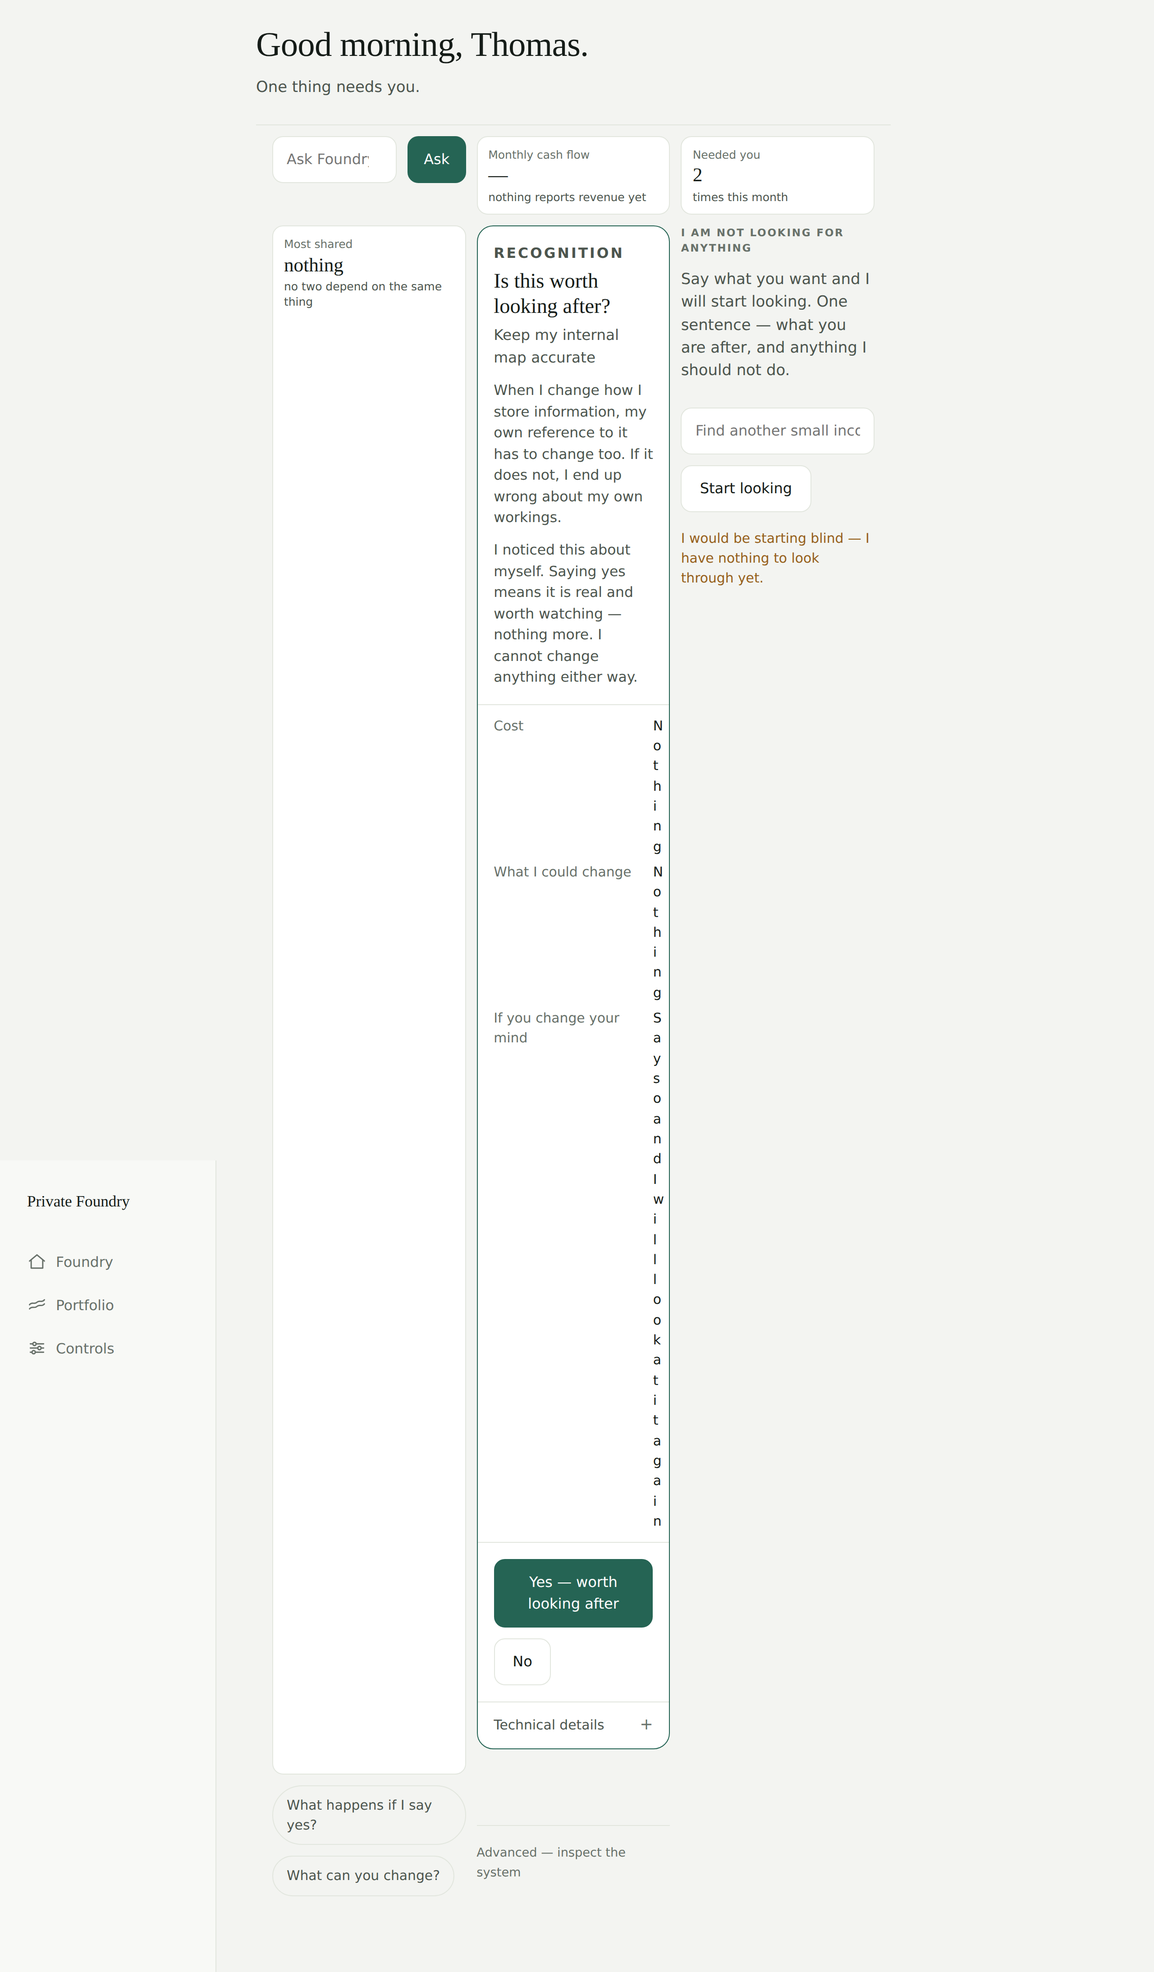
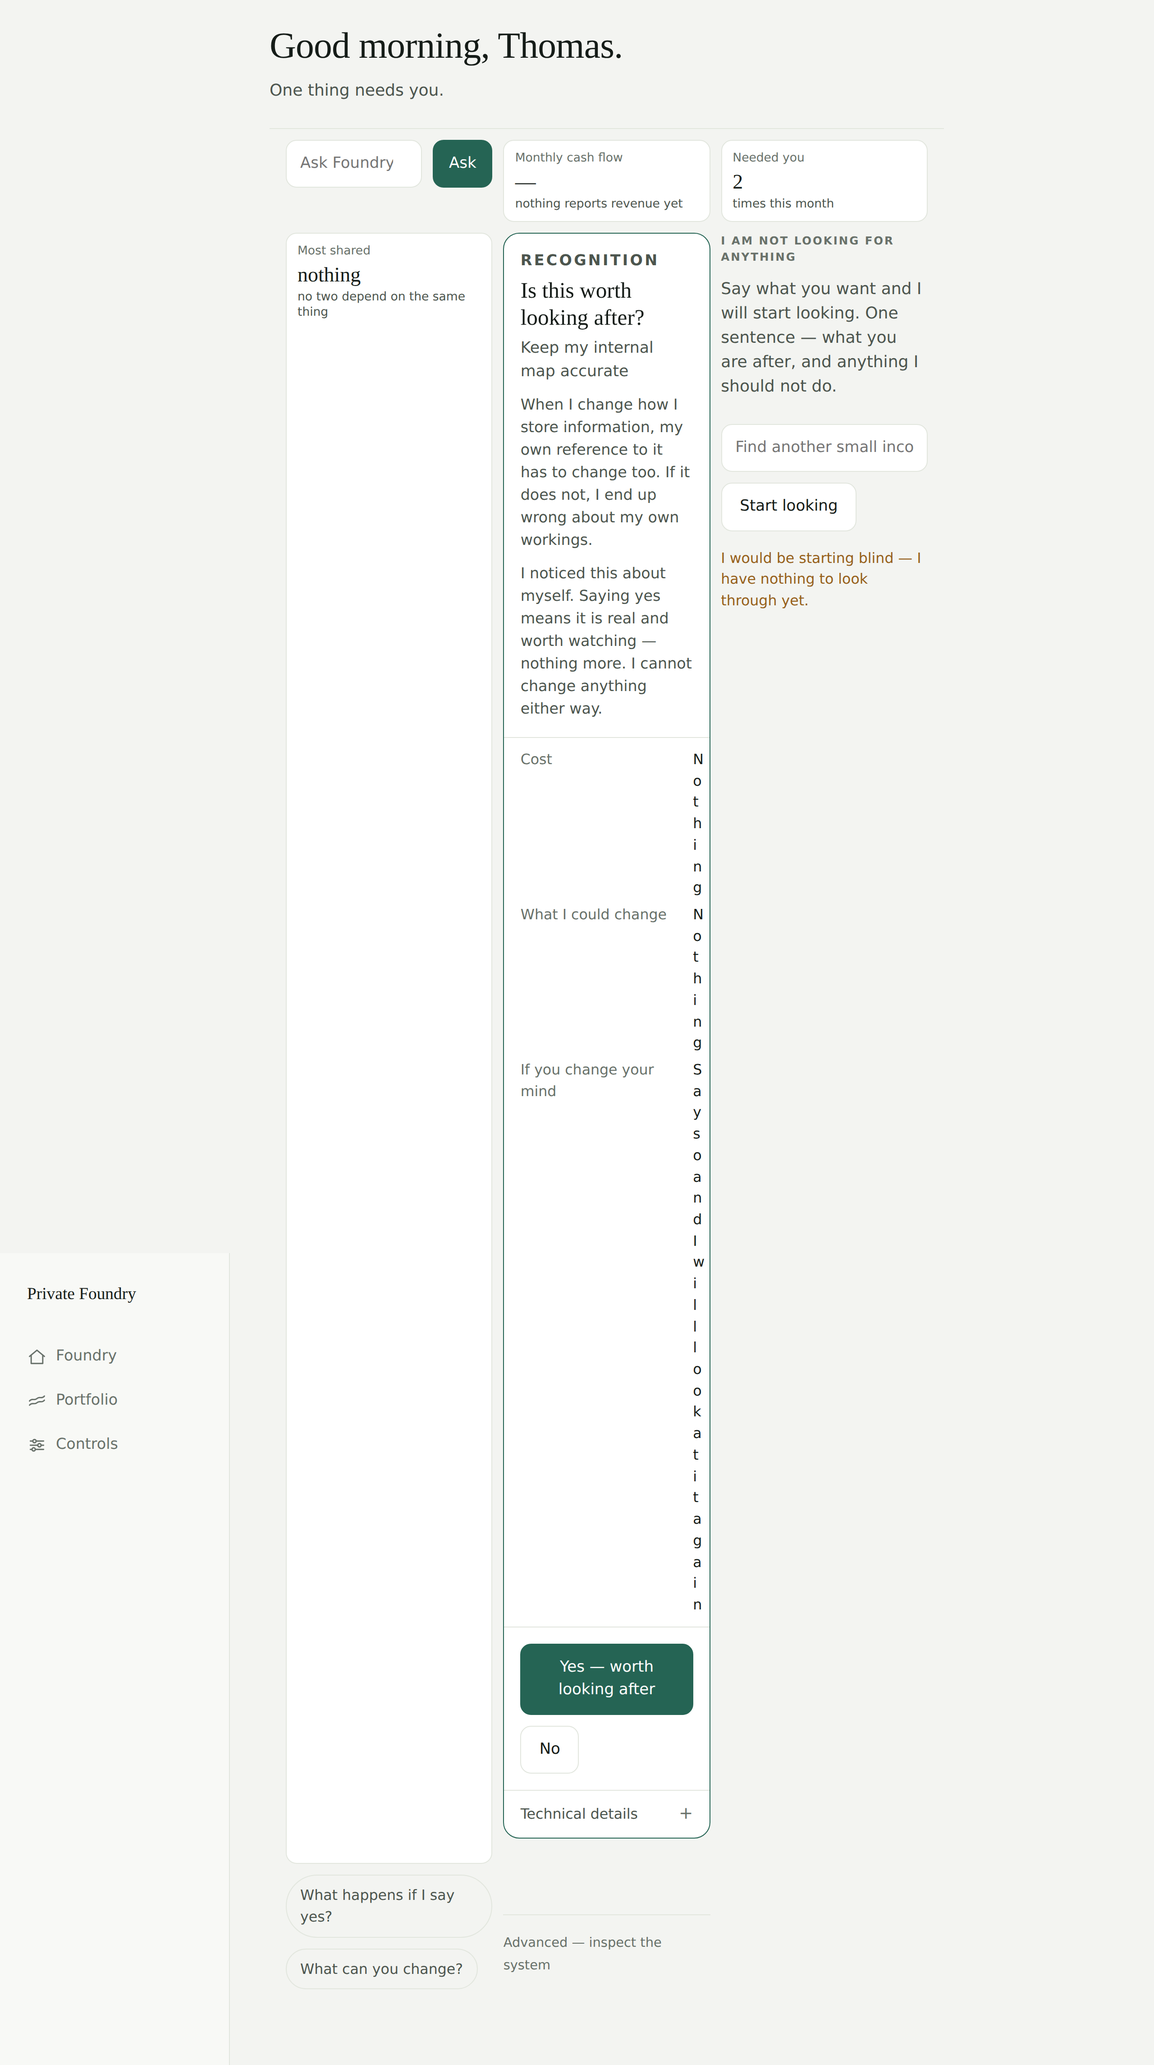
A ceiling he could not lower, and a button he did not press [deploy-private]
AN ALLOWANCE COULD BE SET AND NEVER TAKEN BACK. The function to withdraw one
existed, was exported, and was called from nowhere — so the only way to remove
a spending ceiling was to set a different one, which is a different act and not
what he would mean. On the surface whose entire subject is what he has
permitted, a permission that cannot be withdrawn is the wrong way round.

A BUTTON THAT RECORDED A RULE HE DID NOT ASK FOR. "Keep looking" posted a
sentence straight past the confirmation page every other binding statement goes
through, where it was read as permanent guidance and stored on the mandate
forever. Keeping looking is what happens when he does nothing; it does not need
a button, and it certainly does not need one that quietly writes a rule. Deleted.
"Reject" now says what it does — bury this one — because the card's other
buttons name their consequence and that one named a feeling.

HIS OWN SENTENCE, PRINTED TWICE. "What matters here" showed his statement in the
fold's summary and again three lines below it, right-aligned with no clamp, so
three hundred characters of his own words became a wall beside a heading.

THE TYPE SCALE DISAGREED WITH ITSELF. The body was 17px while rem stayed 16px,
so every size in the stylesheet — all of them are in rem — was six per cent
smaller than the scale it was written against. And on desktop the cards were
capped to a readable measure while the prose between them was not, so sentences
[…]

diff --git a/src/routes/dashboard/foundry-shell.ts b/src/routes/dashboard/foundry-shell.ts
@@ -600,10 +600,13 @@ async function readOwnerState(
           // morning has not come round yet. Saying "I have found nothing" when
           // I have not yet looked would be worse: it reports an outcome for
           // work that never happened.
+          // WHETHER IT HAS EVER LOOKED IS A YES OR NO, not a total. This
+          // counted every retrieval the institution had ever made, on the first
+          // screen, to answer a question that one row settles.
           const looked = (await query(
-            'SELECT COUNT(*) AS n FROM market_retrievals WHERE founder_id = ?',
-            [founderId])).rows[0] as Record<string, unknown>;
-          return Number(looked.n) === 0
+            'SELECT 1 AS any FROM market_retrievals WHERE founder_id = ? LIMIT 1',
+            [founderId])).rows[0] as Record<string, unknown> | undefined;
+          return looked === undefined
             ? 'I have not looked yet. I go looking each morning.'
             : 'I have looked and found nothing worth pursuing yet.';
         })(),
@@ -886,10 +889,15 @@ const page = (title: string, body: HtmlEscapedString | Promise<HtmlEscapedString
     --c1:#B7E4D0; --c2:#7FC3A8; --c3:#4A8570; --c4:#2A4C40;
   }}
   *,*::before,*::after{box-sizing:border-box}
+  /* REM AND BODY AGREE. The body was 17px while rem stayed 16px, so every size
+     expressed in rem — which is all of them — was 6% smaller than the scale it
+     was written against, and a .93rem "slightly smaller" was actually 15.8px
+     beside 17px body text. */
+  html{font-size:17px}
   html,body{max-width:100%;overflow-x:hidden}
   body{
     margin:0;background:var(--bg);color:var(--ink);
-    font:400 17px/1.5 ui-sans-serif,system-ui,-apple-system,"Segoe UI",sans-serif;
+    font:400 1rem/1.5 ui-sans-serif,system-ui,-apple-system,"Segoe UI",sans-serif;
     -webkit-text-size-adjust:100%;-webkit-font-smoothing:antialiased;
   }
   /* ENOUGH ROOM FOR BOTH BARS AND THE HOME INDICATOR. The reserve was a flat
@@ -915,7 +923,6 @@ const page = (title: string, body: HtmlEscapedString | Promise<HtmlEscapedString
     margin:0 0 4px;overflow-wrap:anywhere}
   .tile dd.d{font-size:.78rem;color:var(--ink-2);margin:0;line-height:1.3}
   .tile .d.up{color:var(--good)} .tile .d.down{color:var(--alert)}
-  .tile .spark{display:block;width:100%;height:28px;margin-top:6px}
 
   /* THE NUMBERS. Two across on a phone, each with its trend. */
   .numbers{display:grid;grid-template-columns:repeat(2,minmax(0,1fr));gap:var(--s2);margin:0 0 var(--s2)}
@@ -963,9 +970,6 @@ const page = (title: string, body: HtmlEscapedString | Promise<HtmlEscapedString
   .hero p{margin:0;color:var(--ink-2)}
   .hero.alert{border-color:var(--alert)}
   .quiet{color:var(--ink-2);font-size:.93rem}
-  .more{border:0;border-top:1px solid var(--line);margin-top:var(--s4)}
-  .more>summary{padding-left:0;padding-right:0;color:var(--ink-3)}
-  .more .inner{padding:0}
   /* FOLDED, NOT HIDDEN. Each section is one line that says what is in it,
      and opens in place. The page is understood at a glance and explored when
      wanted, which is the difference between a company and a report. */
@@ -1081,7 +1085,11 @@ const page = (title: string, body: HtmlEscapedString | Promise<HtmlEscapedString
     background:linear-gradient(to top,var(--bg) 70%,transparent)}
   .item{display:block;text-decoration:none;color:inherit;background:var(--card);
     border:1px solid var(--line);border-radius:var(--r);padding:var(--s3);margin:0 0 var(--s2)}
-  .item:hover,.item:focus-visible{border-color:var(--ink-3);outline:none}
+  .item:hover{border-color:var(--ink-3)}
+  /* THE FOCUS RING WAS TURNED OFF. Keyboard focus had nothing to show for
+     itself on the only link that repeats down the whole portfolio. */
+  .item:focus-visible{border-color:var(--ink-3);outline:2px solid var(--accent);
+    outline-offset:2px}
   .item h3{margin:0 0 var(--s1);font-size:1.08rem;font-weight:600}
   .item p{margin:0;color:var(--ink-2);font-size:.93rem}
   .know{margin:0 0 var(--s4)}
@@ -1137,6 +1145,11 @@ const page = (title: string, body: HtmlEscapedString | Promise<HtmlEscapedString
   @media (min-width:900px){
     body{font-size:max(16px,1rem)}
     .wrap{max-width:68rem;margin:0 0 0 15rem;padding:var(--s4) var(--s5) var(--s5)}
+    /* A LINE OF PROSE HAS A LENGTH. The cards were capped and the paragraphs
+       between them were not, so on a wide screen the sentences ran to a
+       hundred and forty characters — unreadable, and beside cards that stopped
+       at half that. */
+    .wrap>*{max-width:44rem}
     h1{font-size:2.4rem}
     nav.places{top:0;bottom:0;right:auto;width:15rem;border-top:0;border-right:1px solid var(--line);
       padding:var(--s4) var(--s3);background:var(--card-2)}
@@ -2334,13 +2347,9 @@ foundryShellRoutes.get('/foundry', async (c) => {
             <button class="${attention === null ? 'btn go' : 'btn'}" type="submit">Take it
               forward</button>
           </form>` : ''}
-          <form method="POST" action="/foundry/venture/confirm">
-            <input type="hidden" name="said" value="Keep looking" />
-            <button class="btn" type="submit">Keep looking</button>
-          </form>
           <form method="POST" action="/foundry/venture/reject">
             <input type="hidden" name="opportunityId" value="${cand.id}" />
-            <button class="btn" type="submit">Reject</button>
+            <button class="btn" type="submit">Bury this one</button>
           </form>
         </div>
       </div>`)}
@@ -2950,7 +2959,7 @@ foundryShellRoutes.get('/foundry/companies/:id', async (c: any) => {
 
   const body = html`
     <h1>${view.name}</h1>
-    ${view.reference ? html`<div class="know" style="border-color:var(--warn,#b45309)">
+    ${view.reference ? html`<div class="know" style="border-color:var(--alert)">
       <h3>This company does not exist</h3>
       <p>I made it up, so you could watch me work before handing me anything real.
         It is ${view.reference.situation}.</p>
@@ -2992,6 +3001,8 @@ foundryShellRoutes.get('/foundry/companies/:id', async (c: any) => {
     ${done === 'allowed' && view.allowance ? html`<div class="done"><p><strong>Allowed.</strong>
       Up to $${view.allowance.amount} for this company. I will stop and tell you when it
       runs out.</p></div>` : ''}
+    ${done === 'allowancewithdrawn' ? html`<div class="done"><p><strong>Taken back.</strong>
+      I cannot spend anything for this company again until you say otherwise.</p></div>` : ''}
     ${done === 'preferred' ? html`<div class="done"><p><strong>Noted.</strong> I will lean
       that way. I will not refuse anything because of it.</p></div>` : ''}
     ${done === 'agreed' ? html`<div class="done"><p><strong>Agreed.</strong> Nothing has
@@ -3160,7 +3171,7 @@ foundryShellRoutes.get('/foundry/companies/:id', async (c: any) => {
        — ${LADDER_IN_PLAIN_WORDS[r.state] ?? r.state}</li>`).join(''))}</ul>
     </details>` : ''}
 
-    <details class="know fold"><summary><h3>What matters here</h3><span class="gist">${view.said ? view.said.statement : 'you have not told me'}</span></summary>
+    <details class="know fold"><summary><h3>What matters here</h3><span class="gist">${view.said ? 'you have told me' : 'you have not told me'}</span></summary>
       ${view.said
     ? html`<p>${view.said.statement}</p>
         <p class="quiet">${view.said.steers
@@ -3180,7 +3191,15 @@ foundryShellRoutes.get('/foundry/companies/:id', async (c: any) => {
         I will refuse it every time until you say otherwise. I will say what I understood
         before anything takes effect.</p>
       ${view.allowance ? html`<p><strong>Up to $${view.allowance.amount}</strong> —
-        $${view.allowance.left} of it left. ${view.allowance.statement}</p>` : ''}
+        $${view.allowance.left} of it left. ${view.allowance.statement}</p>
+      <!-- A CEILING HE COULD SET AND NEVER REMOVE. The function to withdraw one
+           existed, was exported, and was called from nowhere — so the only way
+           to take back a spending allowance was to set a different one, which
+           is not the same act and not what he would mean. -->
+      <form method="POST"
+        action="/foundry/companies/${view.id}/allowance/${view.allowance.id}/withdraw">
+        <button class="btn" type="submit">Take that allowance back</button>
+      </form>` : ''}
       ${view.preferences.length ? html`<ul>${raw(view.preferences.map((p) =>
     `<li>${p.statement} <span class="quiet">— a preference. I lean that way; I refuse
       nothing because of it.</span></li>`).join(''))}</ul>` : ''}
@@ -3410,6 +3429,28 @@ async function absorbAndAnswer(
 // machinery is real, the market is not, and nothing it produces can be counted
 // or acted on. It refuses while any search is open, because one search at a
 // time is the rule and a rehearsal must never displace the real thing.
+// TAKING BACK WHAT HE ALLOWED.
+//
+// Setting an allowance was reachable and removing one was not: the function
+// existed, exported, called from nowhere. A ceiling he cannot lower is not a
+// ceiling he set — it is one he is stuck with — and on a surface whose whole
+// subject is what he has permitted, that is the wrong way round.
+// eslint-disable-next-line @typescript-eslint/no-explicit-any
+foundryShellRoutes.post('/foundry/companies/:id/allowance/:allowanceId/withdraw',
+  requireInstitutionOwner(), async (c: any) => {
+    const founder = c.get('founder') as { id?: string } | undefined;
+    if (!founder?.id) return c.redirect('/onboarding');
+    const productId = c.req.param('id');
+    const owned = await query(
+      'SELECT id FROM products WHERE id = ? AND owner_id = ?',
+      [productId, String(founder.id)]);
+    if (!owned.rows.length) return c.notFound();
+
+    const { withdrawAllowance } = await import('../../services/institution/standing-intent.js');
+    await withdrawAllowance(String(c.req.param('allowanceId')), 'you took it back');
+    return c.redirect(`/foundry/companies/${productId}?done=allowancewithdrawn`);
+  });
+
 foundryShellRoutes.post('/foundry/reference/search', requireInstitutionOwner(),
   async (c: any) => {
     const founder = c.get('founder') as { id?: string } | undefined;

diff --git a/src/routes/dashboard/letter.ts b/src/routes/dashboard/letter.ts
@@ -152,7 +152,7 @@ const judgmentSection = (
           <div style="font-size:0.72rem;color:var(--text-muted);margin-top:0.3rem;">Your current direction: ${j.disposition.replaceAll('_', ' ')}${j.selectedAlternative ? html` — ${j.selectedAlternative}` : ''}. You can change it below.</div>` : ''}
         <form method="POST" action="/letter/judgments/${j.id}/disposition"
           style="display:flex;gap:0.4rem;margin-top:0.45rem;align-items:center;flex-wrap:wrap;">
-          <select name="direction" style="font-size:0.78rem;">
+          <select name="direction" aria-label="Which way this should go" style="font-size:0.78rem;">
             <option value="accepted">Go this way</option>
             ${j.alternatives.map((alt, i) => html`<option value="alternative:${i}">Instead: ${alt}</option>`)}
             <option value="deferred">Not yet — decide later</option>
@@ -217,7 +217,7 @@ const doNotContactSection = (
       style="display:flex;gap:0.4rem;margin-top:0.6rem;align-items:center;flex-wrap:wrap;">
       <input name="email" required type="email" maxlength="320" placeholder="Their email address"
         style="flex:1;min-width:220px;" />
-      <select name="reason" style="font-size:0.78rem;">
+      <select name="reason" aria-label="Why this should not be done" style="font-size:0.78rem;">
         <option value="they_asked">they asked me to stop</option>
         <option value="founder">I do not want them contacted</option>
         <option value="bounced">mail to them bounces</option>
@@ -271,7 +271,7 @@ const reportObligationSection = (options: Array<[string, string]>) => html`
     <div style="font-size:0.7rem;font-weight:700;letter-spacing:0.12em;text-transform:uppercase;color:var(--text-muted);margin-bottom:0.6rem;">Tell me something the company has to handle</div>
     <form method="POST" action="/letter/company/report"
       style="display:flex;gap:0.4rem;align-items:center;flex-wrap:wrap;">
-      <select name="obligation_kind" style="font-size:0.78rem;">
+      <select name="obligation_kind" aria-label="What kind of obligation this is" style="font-size:0.78rem;">
         ${options.map(([value, label]) => html`<option value="${value}">${label}</option>`)}
       </select>
       <input name="what" required maxlength="200" placeholder="What is it, in your words?"
@@ -301,7 +301,7 @@ const outcomeSection = (
         <div style="font-size:0.9rem;color:var(--text-primary);">${item.title}</div>
         <div style="font-size:0.78rem;color:var(--text-muted);margin-top:0.15rem;">${item.preview}</div>
         <div style="display:flex;gap:0.4rem;align-items:center;flex-wrap:wrap;margin-top:0.45rem;">
-          <select name="verdict" style="font-size:0.78rem;">
+          <select name="verdict" aria-label="Your verdict" style="font-size:0.78rem;">
             <option value="achieved">Yes — it did what it was for</option>
             <option value="failed">No — it did not</option>
           </select>
@@ -864,10 +864,10 @@ const metricWatchSection = (
         style="padding:0.55rem 0;border-top:1px solid rgba(255,255,255,0.05);display:flex;gap:0.4rem;align-items:center;flex-wrap:wrap;">
         <div style="font-size:0.9rem;color:var(--text-primary);width:100%;">${item.title}</div>
         <span style="font-size:0.78rem;color:var(--text-muted);">If this is being handled, I'd expect</span>
-        <select name="field" style="font-size:0.78rem;">
+        <select name="field" aria-label="Which measure this is about" style="font-size:0.78rem;">
           ${item.channels.map((ch) => html`<option value="${ch.field}">${ch.label}</option>`)}
         </select>
-        <select name="direction" style="font-size:0.78rem;">
+        <select name="direction" aria-label="Which way this should go" style="font-size:0.78rem;">
           <option value="fell">to go down</option>
           <option value="rose">to go up</option>
           <option value="held">to stay about the same</option>
@@ -939,10 +939,10 @@ const developmentWatchSection = (
         style="padding:0.55rem 0;border-top:1px solid rgba(255,255,255,0.05);display:flex;gap:0.4rem;align-items:center;flex-wrap:wrap;">
         <div style="font-size:0.9rem;color:var(--text-primary);width:100%;">${item.title}</div>
         <span style="font-size:0.78rem;color:var(--text-muted);">If this is being handled, I'd expect</span>
-        <select name="check" style="font-size:0.78rem;">
+        <select name="check" aria-label="Which check this is about" style="font-size:0.78rem;">
           ${checks.map((c) => html`<option value="${c}">${c.replaceAll('-', ' ')}</option>`)}
         </select>
-        <select name="expected_result" style="font-size:0.78rem;">
+        <select name="expected_result" aria-label="What the check should report" style="font-size:0.78rem;">
           <option value="passed">to pass</option>
           <option value="failed">to fail</option>
         </select>
@@ -1004,7 +1004,7 @@ const tellMeSection = (
     <div style="font-size:0.7rem;font-weight:700;letter-spacing:0.12em;text-transform:uppercase;color:var(--text-muted);margin-bottom:0.6rem;">Tell me something important</div>
     <form method="POST" action="/letter/facts/preview"
       style="display:flex;gap:0.4rem;align-items:center;flex-wrap:wrap;">
-      <select name="opportunity" style="font-size:0.78rem;max-width:100%;">
+      <select name="opportunity" aria-label="Which opportunity this is about" style="font-size:0.78rem;max-width:100%;">
         ${opportunities.map((o, i) => html`<option value="${i}">${o.question}</option>`)}
       </select>
       <input name="resource" maxlength="60" placeholder="Of what? (only if I asked)"
@@ -1052,7 +1052,7 @@ const permissionSection = (
           </form>` : html`
           <form method="POST" action="/letter/responsibilities/${item.responsibilityId}/permission/grant"
             style="display:flex;gap:0.4rem;margin-top:0.45rem;align-items:center;flex-wrap:wrap;">
-            <select name="days" style="font-size:0.78rem;">
+            <select name="days" aria-label="For how many days" style="font-size:0.78rem;">
               <option value="30">for the next month</option>
               <option value="7">for the next week</option>
               <option value="90">for the next three months</option>

diff --git a/tests/unit/what-it-would-take-to-undo.test.ts b/tests/unit/what-it-would-take-to-undo.test.ts
@@ -123,3 +123,39 @@ describe('a request for authority', () => {
       .rejects.toThrow(/negative_cost/);
   });
 });
+
+// =============================================================================
+// AND TAKING BACK WHAT HE ALLOWED.
+//
+// Setting a spending allowance was reachable from the company page and removing
+// one was not: the function existed, was exported, and was called from nowhere.
+// The only way to take back an allowance was to set a different one, which is a
+// different act and not what he would mean. A ceiling he cannot lower is not a
+// ceiling he set — on the surface whose whole subject is what he has permitted.
+// =============================================================================
+
+describe('an allowance', () => {
+  it('can be taken back, and the page offers it', async () => {
+    const { setAllowance, allowanceFor } = await import(
+      '../../src/services/institution/standing-intent.js');
+    await setAllowance({ productId, statement: 'up to twenty-five dollars a month',
+      amountCents: 2500, purpose: 'validating things' });
+    const body = await (await app.request(`/foundry/companies/${productId}`)).text();
+    expect(body).toContain('Take that allowance back');
+
+    const id = (await allowanceFor(productId))?.id;
+    const res = await app.request(
+      `/foundry/companies/${productId}/allowance/${String(id)}/withdraw`,
+      { method: 'POST', headers: { 'content-type': 'application/x-www-form-urlencoded' },
+        body: '' });
+    expect(res.status).toBe(302);
+    expect(await allowanceFor(productId)).toBeNull();
+  });
+
+  it('says so, and says what it means', async () => {
+    const body = await (await app.request(
+      `/foundry/companies/${productId}?done=allowancewithdrawn`)).text();
+    expect(body).toContain('Taken back');
+    expect(body).toContain('cannot spend anything');
+  });
+});
